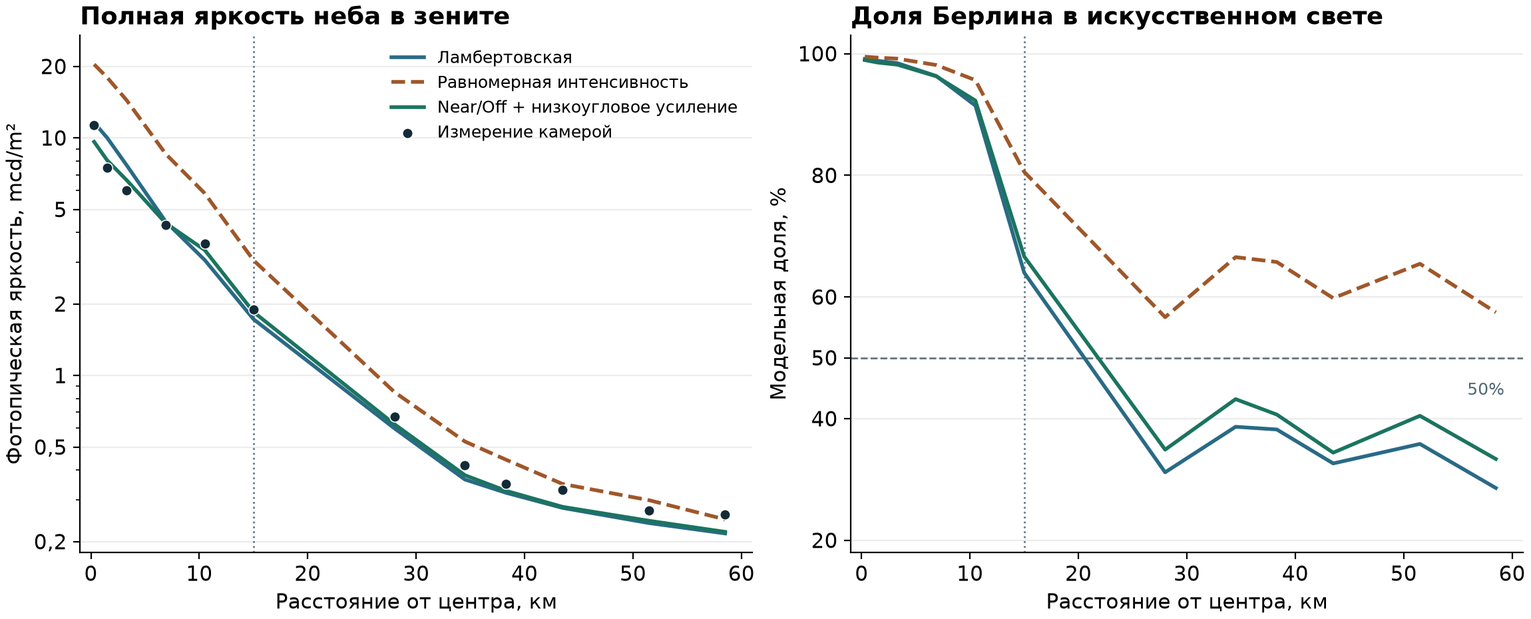
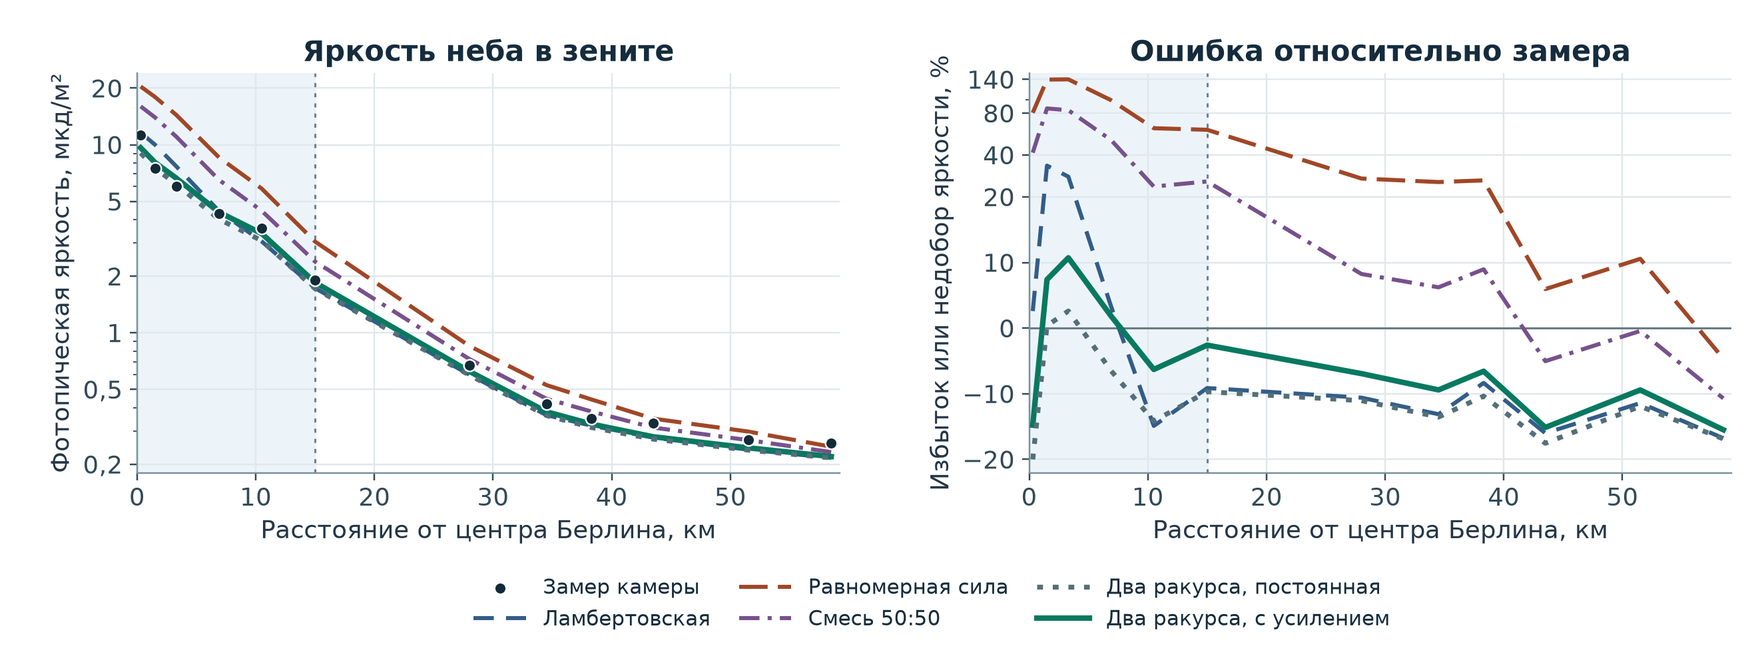
Explain Berlin skyglow inputs and emission scenarios

diff --git a/artifacts/berlin-propagation-20261126/README.md b/artifacts/berlin-propagation-20261126/README.md
@@ -1,71 +1,105 @@
-# Проверка переноса света на ночном маршруте к югу от Берлина
+# Как диаграмма излучения Берлина меняет прогноз яркости неба
 
-В ночь с 28 на 29 марта 2017 года одна калиброванная камера измерила зенитную яркость в **12 точках на расстояниях 0,3–58,5 км от центра Берлина**. Все точки прошли проверку Солнца и Луны. Берлин даёт больше половины искусственного света в **шести точках на расстояниях 0,3–15 км** при всех трёх сценариях с измеренными или ламбертовскими углами. В дальних точках становится важен свет других населённых пунктов. [Наблюдения Jechow и Hölker](https://doi.org/10.3390/rs12203412)
+Сравнение пяти вариантов в 12 точках к югу от Берлина в ночь с 28 на 29 марта 2017 года.
 
-Сравнил порядок яркости площадок, величину спада с расстоянием и среднюю ошибку яркости. Спутниковый масштаб и параметры каждого сценария заданы до сравнения с наземными замерами.
+**Результат.** На шести точках, где по расчёту преобладает Берлин, средняя абсолютная ошибка яркости составила **15,24%** у ламбертовской диаграммы, **8,89%** после привязки к двум ракурсам Black Marble и **7,27%** с дополнительным усилением у горизонта. Во всех пяти вариантах порядок яркости одинаков для всех 64 заметно различавшихся пар на маршруте. За 15 км расчёт с усилением занижает яркость на всех шести дальних точках. В этом секторе существенен вклад соседних населённых пунктов.
 
-![Яркость и доля Берлина в искусственном свете при дневной опоре AERONET](transect.png)
+## Что содержат исходные данные
 
-## Яркость и порядок точек
+| Набор | Что измеряет и как я использовал |
+|---|---|
+| [Наземная фотометрия Jechow и Hölker, таблицы 1 и A1](https://doi.org/10.3390/rs12203412) | Одна Canon EOS 6D с объективом «рыбий глаз», откалиброванная по звёздам. Оценка полной фотопической яркости неба в круге радиусом 10° вокруг зенита, в мкд/м². Камера регистрирует вместе искусственный свет и естественный фон. По оценке исследователей, погрешность фотометрии около 10%. |
+| [Ручной фотометр SQM на том же маршруте](https://arxiv.org/html/2202.08258v1#S3.SS1) | Второй ряд наземных измерений с собственной спектральной полосой прибора. Использовал его для проверки порядка яркости площадок. Ошибку в мкд/м² считаю по фотопической оценке камеры. |
+| [NASA Black Marble, VNP46A3.002 и VNP46A4.002](https://ladsweb.modaps.eosdis.nasa.gov/missions-and-measurements/products/VNP46A3) | Спутниковая радиансность от участков поверхности в широкой полосе VIIRS DNB, примерно 500–900 нм. Для расчёта это карта света, уходящего от поверхности в атмосферу. Композит объединяет пролёты за период. Направление лучей задают слои NearNadir и OffNadir. |
+| [AERONET, станция Freie Universität Berlin, таблица A3](https://doi.org/10.3390/rs12203412) | Оптическая толщина аэрозоля из измерений прямого солнечного света. За последние два светлых часа 28 марта опубликованы AOD 0,19 на 440 нм, 0,17 на 500 нм и 0,13 на 675 нм. По ним получил AOD 0,156 на 550 нм и показатель Ангстрема 0,888. Это дневная опора для ночного расчёта. |
 
-В таблице средняя абсолютная относительная ошибка **полной** фотопической яркости. Три разреза показаны на одних и тех же физических входах. Опора для AOD на 550 нм составляет 0,156 по дневной фотометрии AERONET. Знак среднего смещения приведён для шести точек с преобладанием Берлина.
+Наблюдения сделаны в 12 точках на расстояниях 0,3–58,5 км от центра Берлина. Маршрут прошли последовательно за 3 ч 36 мин, с 01:11 до 04:47 местного времени 29 марта, или с 23:11 UTC 28 марта до 02:47 UTC 29 марта. Облачность по полевому отчёту 0 октантов. По эфемеридам высота Солнца от −34,1° до −18,4°, Луны от −33,9° до −24,6°. [Точки, координаты и время](observations.json) · [Публикация с описанием камеры и апертуры](https://arxiv.org/html/2202.08258v1#S2.SS2)
 
-| Излучение Берлина | Берлин преобладает, 6 точек | Смещение на этих 6 точках | Все 12 точек | Дальше от центра, 15–58,5 км, 7 точек |
+Использовал бесснежный композит Black Marble за март 2017 года, плитка h19v03. Если месячная ячейка NearNadir отсутствовала или не проходила фильтр, брал ячейку из годового композита 2017 года. Фильтр принимает флаг качества 0 и больше трёх наблюдений. Годовые замены дают 4,42% радиансности Берлина в NearNadir. Из 6 796 ячеек внутри границы города годны 6 544 в NearNadir и 6 102 в обоих ракурсах. [Руководство Black Marble Collection 2.0](https://landweb.modaps.eosdis.nasa.gov/data/userguide/BlackMarbleUserGuide_Collection2.0_20241203.pdf)
+
+## Как привёл прогноз к показанию камеры
+
+- **Место и направление.** Запустил перенос на координатах каждой остановки. Высоты наблюдателей взял из Copernicus DEM GLO-90 и добавил 1,5 м для камеры. Усреднил лучи по телесному углу в конусе радиусом 10° вокруг зенита. [Источник высот](https://open-meteo.com/en/docs/elevation-api)
+- **Полоса и единицы.** Привязал спектры тёплого LED и натриевой лампы высокого давления к равным вкладам в спутниковую полосу DNB. Считал перенос в пяти интервалах 380–780 нм и сложил их с фотопическими весами CIE. Так получил мкд/м², то есть милликанделы на квадратный метр. Спектр реальных ламп, свет в ближней ИК-части полосы DNB и отличие зелёного канала камеры от CIE остаются источниками неопределённости. [Полоса VIIRS DNB](https://ladsweb.modaps.eosdis.nasa.gov/missions-and-measurements/products/VNP02DNB/)
+- **Атмосфера и фон.** Считал все порядки рассеяния на сфере с одним атмосферным профилем на весь маршрут. Задал AOD 0,156, высоту аэрозольного масштаба 1,2 км и масштаб молекулярного рассеяния 8 км. К искусственной яркости всех прогнозов добавил 0,170 мкд/м², опорный естественный фон из статьи. Ночной фон и высотный профиль аэрозоля остаются неопределёнными. [Опорный фон, таблица 2](https://doi.org/10.3390/rs12203412)
+- **Изменяемый параметр.** Между сценариями менял только угловую диаграмму ячеек внутри муниципальной границы Берлина. Соседние источники, атмосфера, фон и спектральная смесь были общими. Масштаб каждого варианта задал по спутнику до сравнения с камерой. Коэффициент по наземным замерам не подбирал. [Граница DE001C, GISCO 2024, © EuroGeographics](https://gisco-services.ec.europa.eu/distribution/v2/urau/geojson/URAU_RG_100K_2024_4326_CITIES.geojson)
+
+## Что именно менялось в диаграммах
+
+Диаграмма задаёт, сколько света участок отдаёт вверх и вбок. Радиансность L описывает свет на единицу видимой площади и телесного угла. Сила излучения I описывает свет всего участка на единицу телесного угла. Для горизонтального участка площади A и высоты луча h над горизонтом выполняется I = A × L × sin(h). У матовой поверхности L постоянна, а при взгляде сбоку видимая площадь A × sin(h) меньше. [Закон Ламберта](https://ntrs.nasa.gov/api/citations/19680004191/downloads/19680004191.pdf)
+
+| Вариант | Правило для излучения участка Берлина |
+|---|---|
+| **Ламбертовская** | Радиансность постоянна и равна NearNadir. Сила излучения слабее под малым углом. При 30° над горизонтом она вдвое меньше, чем вертикально вверх. |
+| **Равномерная сила** | Сила излучения одинакова для углов от 5° до 90° над горизонтом. Радиансность при наклоне растёт, потому что видимая площадь уменьшается. В последних 5° радиансность фиксируется на значении при 5°. |
+| **Смесь 50:50** | Ламбертовская и равномерная диаграммы смешаны с равными вкладами в NearNadir. Это доли в спутниковом ракурсе. |
+| **Два ракурса, постоянная** | Для той же ячейки сохраняю NearNadir и OffNadir в их диапазонах углов. Между диапазонами интерполирую по косинусу угла от вертикали. Ниже 30° над горизонтом продолжаю OffNadir постоянной радиансностью. |
+| **Два ракурса, с усилением** | Те же значения в измеренных диапазонах. Ниже 30° радиансность плавно растёт от значения OffNadir к удвоенному значению у горизонта. |
+
+**Что значит «два ракурса».** NearNadir собирает свет, уходящий почти вертикально вверх, от 70° до 90° над горизонтом. OffNadir собирает свет под наклоном, от 30° до 50°. Для каждой ячейки это две оценки радиансности по разным спутниковым пролётам. Участок с отсутствующим OffNadir остаётся ламбертовским. Оба сценария одинаковы по всем измеренным углам и расходятся только ниже 30° над горизонтом. [Диапазоны NearNadir и OffNadir](https://landweb.modaps.eosdis.nasa.gov/data/userguide/BlackMarbleUserGuide_Collection2.0_20241203.pdf#page=25)
+
+При одинаковой опоре NearNadir ламбертовская диаграмма даёт отношение OffNadir к NearNadir 1,00, равномерная — 1,55, смесь — 1,28. Усреднение по телесному углу внутри диапазонов приближённое. В композитах на общем покрытии Берлина отношение **0,926**. Равномерная модель даёт слишком много света уже в наклонном ракурсе, который спутник наблюдает.
+
+![График 1. Пять диаграмм одного участка с отношением OffNadir к NearNadir 0,926, как в среднем по Берлину. Голубые полосы показывают спутниковые ракурсы.](emission-diagrams.png)
+
+Усиленный вариант даёт в 1,48 раза больше радиансности на 15° над горизонтом и в 1,83 раза на 5° относительно постоянного продолжения. Эффективная площадь горизонтального участка падает к горизонту, поэтому его сила излучения убывает даже при таком росте радиансности. Малые углы важны вдали от города. Например, в плоском приближении луч на высоту 2 км над точкой в 50 км выходит из города под углом около 2,3° и может рассеяться в зенитное поле камеры.
+
+## Как изменились прогнозы
+
+Средняя абсолютная ошибка — среднее по остановкам от модуля разницы, делённого на измеренную полную яркость. Среднее смещение сохраняет знак, плюс означает избыток расчётной яркости. На первых шести точках, до 15 км включительно, Берлин даёт больше половины искусственной яркости во всех трёх вариантах с ламбертовским или измеренным распределением. В дальней группе шесть остальных точек, от 28 до 58,5 км.
+
+| Вариант | Ошибка до 15 км, 6 точек | Смещение до 15 км | Ошибка дальше 15 км, 6 точек | Ошибка на всём маршруте, 12 точек |
 |---|---:|---:|---:|---:|
-| Ламбертовское | 15,24% | +7,23% | 13,97% | 12,20% |
-| Равномерная интенсивность | 97,10% | +97,10% | 56,89% | 22,98% |
-| Смесь 50:50 по NearNadir | 52,16% | +52,16% | 29,38% | 9,34% |
-| NearNadir/OffNadir с постоянным продолжением | 8,89% | −7,90% | 11,22% | 13,00% |
-| NearNadir/OffNadir с усилением у горизонта | 7,27% | −0,62% | 8,88% | 9,36% |
+| Ламбертовская | 15,24% | +7,23% | 12,71% | 13,97% |
+| Равномерная сила | 97,10% | +97,10% | 16,68% | 56,89% |
+| Смесь 50:50 | 52,16% | +52,16% | 6,60% | 29,38% |
+| Два ракурса, постоянная | 8,89% | −7,90% | 13,55% | 11,22% |
+| Два ракурса, с усилением | 7,27% | −0,62% | 10,49% | 8,88% |
 
-Считаю точки примерно равными, когда их яркости отличаются максимум на 10% от среднего в паре. По замерам 2 из 66 пар примерно равны, 64 заметно различаются. Во всех пяти вариантах порядок верен для всех 64 различающихся пар. Ламбертовская диаграмма и постоянное продолжение OffNadir воспроизвели по одной из двух близких пар. Сценарий с усилением у горизонта разделил обе близкие пары. В подгруппе, где доминирует Берлин, все 15 пар различаются, и порядок верен во всех пяти вариантах. Все пары получены из одного маршрута за одну ночь. [Метрики при порогах 5, 10 и 20%](results.json)
+- **От ламбертовской к двум ракурсам.** Постоянное продолжение уменьшило ошибку на шести точках с преобладанием Берлина на 6,35 процентного пункта. Избыток яркости около центра сменился небольшим средним недобором. У смеси 50:50 низкая ошибка на дальних точках сочетается с сильным завышением возле города и с избытком света в наклонном ракурсе Black Marble.
+- **От постоянного продолжения к усилению.** Усиление дополнительно снизило среднюю ошибку на тех же шести точках на 1,62 процентного пункта, а среднее смещение приблизилось к нулю. На самой дальней точке прибавка составила 0,0036 мкд/м² при остаточном недоборе примерно 0,040 мкд/м².
 
-Проверил порядок и по показаниям ручного SQM, опубликованным для того же маршрута. В шести доминирующих точках все модели верно упорядочили 15 из 15 различимых пар. На всём маршруте вариант с усилением у горизонта воспроизвёл порядок всех 63 различимых пар SQM. Абсолютную ошибку выше считаю в фотопической полосе камеры. [Значения SQM и оценка точности приборов](https://arxiv.org/html/2202.08258v1#S3.SS1)
+![График 2. Линии соединяют значения в 12 точках. Голубым отмечены первые шесть точек. Шкала яркости слева логарифмическая. Справа шкала ошибки сжимается за пределами ±20%.](transect.png)
 
-## Проверка спада яркости с расстоянием
+### Измерения и прогнозы по точкам
 
-Вычел одинаковый естественный фон 0,17 mcd/m² из измерения и расчёта, затем сравнил отношения искусственной яркости. Между 0,3 и 15 км по замерам искусственная яркость упала в **6,43 раза**. Ламбертовская модель даёт спад в **7,34 раза**, вариант с усилением у горизонта — в **5,63 раза**. На всех парах этих шести точек средняя ошибка отношения в логарифмической шкале уменьшилась с 0,247 до 0,131 mag. Так проверяется форма кривой без назначения общего масштаба по первой точке.
+Все значения яркости в мкд/м². Столбец «Берлин» показывает его долю в искусственном сигнале в варианте с усилением. «Постоянная» и «Усиление» используют оба ракурса Black Marble. Расчётные десятичные знаки оставлены для сравнения вариантов.
 
-От 15 до 58,5 км измеренный искусственный сигнал уменьшается в **19,2 раза**, а расчёт с усилением у горизонта — в **33,8 раза**. На этих расстояниях у Берлина только одна площадка, 15 км, с долей больше 50% во всех трёх основных сценариях. Дальняя часть показывает слишком быстрый спад суммарного расчётного сигнала, в который входят соседние источники. Дополнительно она чувствительна к естественному фону и изменению освещения за время маршрута.
+| км | Камера | Ламберт | Равн. сила | Смесь 50:50 | Постоянная | Усиление | Берлин |
+|---:|---:|---:|---:|---:|---:|---:|---:|
+| 0,3 | 11,300 | 11,594 | 20,405 | 15,999 | 9,039 | 9,629 | 99% |
+| 1,5 | 7,500 | 10,016 | 17,968 | 13,992 | 7,528 | 8,055 | 99% |
+| 3,3 | 6,000 | 7,676 | 14,407 | 11,042 | 6,156 | 6,643 | 98% |
+| 6,9 | 4,300 | 4,442 | 8,566 | 6,504 | 4,021 | 4,379 | 96% |
+| 10,5 | 3,600 | 3,064 | 5,845 | 4,454 | 3,090 | 3,373 | 92% |
+| 15,0 | 1,900 | 1,727 | 3,054 | 2,391 | 1,716 | 1,851 | 67% |
+| 28,0 | 0,670 | 0,599 | 0,852 | 0,725 | 0,596 | 0,624 | 35% |
+| 34,5 | 0,420 | 0,365 | 0,527 | 0,446 | 0,363 | 0,380 | 43% |
+| 38,3 | 0,350 | 0,321 | 0,442 | 0,381 | 0,314 | 0,327 | 41% |
+| 43,5 | 0,330 | 0,277 | 0,350 | 0,313 | 0,272 | 0,280 | 34% |
+| 51,5 | 0,270 | 0,239 | 0,299 | 0,269 | 0,238 | 0,245 | 40% |
+| 58,5 | 0,260 | 0,216 | 0,248 | 0,232 | 0,216 | 0,220 | 33% |
 
-Перенос воспроизводит порядок и приблизительный масштаб спада в группе, где преобладает Берлин. Привязка диаграммы к спутниковым углам улучшила и абсолютную яркость, и спад в этой группе. Для точного закона переноса остаются независимые неопределённости в ночной атмосфере, форме городского излучения и свете других населённых пунктов.
+В опыте 180 прогонов всех порядков по 131 072 траектории, суммарно 23 592 960. Ковариации и стандартные ошибки в архиве относятся к численному усреднению по траекториям. Сохранил координаты, эфемериды, хеши плиток, спектральные веса и полные прогнозы. Численные наблюдения из публикации распространяются по CC BY 4.0. [Наблюдения](observations.json) · [Результаты](results.json) · [Воспроизведение расчёта](../../scripts/run_berlin_propagation.py)
 
-## Точки и условия
+## Что говорят порядок, спад и дальние точки
 
-Расчёт использует NearNadir/OffNadir с усилением у горизонта. Доля Берлина относится к полному искусственному сигналу по модели. Единица яркости mcd/m², милликандела на квадратный метр.
+**Порядок.** Считаю точки примерно равными, если разница яркости не больше 10% от среднего в паре. Все пять диаграмм верно указали более яркую точку в 64 из 64 различимых пар по камере, в том числе в 15 из 15 пар на первых шести остановках. Из двух близких пар ламбертовская диаграмма и постоянное продолжение распознали по одной, остальные варианты — ни одной. У ручного SQM 63 различимые пары, порядок у усиленной диаграммы совпал во всех 63. Пары используют одни и те же точки одной ночи. [Измерения SQM](https://arxiv.org/html/2202.08258v1#S3.SS1) · [Расчёт по порогам 5, 10 и 20%](results.json)
 
-| Точка | км | Местное время | Измерено | Расчёт | Доля Берлина |
-|---|---:|---:|---:|---:|---:|
-| Museumsinsel | 0,3 | 01:11 | 11,30 | 9,63 | 99% |
-| Waldeckpark | 1,5 | 01:38 | 7,50 | 8,05 | 99% |
-| Park am Gleisdreieck | 3,3 | 01:57 | 6,00 | 6,64 | 98% |
-| Hans Baluschek Park | 6,9 | 02:23 | 4,30 | 4,38 | 96% |
-| Gemeindepark Lankwitz | 10,5 | 02:44 | 3,60 | 3,37 | 92% |
-| Gut Osdorf | 15,0 | 03:02 | 1,90 | 1,85 | 67% |
-| Wietstock | 28,0 | 03:31 | 0,67 | 0,624 | 35% |
-| Christinendorf | 34,5 | 03:56 | 0,42 | 0,380 | 43% |
-| Alexanderdorf | 38,3 | 04:05 | 0,35 | 0,327 | 41% |
-| Sperenberg | 43,5 | 04:19 | 0,33 | 0,280 | 34% |
-| Stülpe | 51,5 | 04:31 | 0,27 | 0,245 | 40% |
-| Petkus | 58,5 | 04:47 | 0,26 | 0,220 | 33% |
+**Спад в зоне преобладания Берлина.** При вычете одинакового фона из наблюдений и прогнозов яркость от 0,3 до 15 км упала по наблюдениям в 6,43 раза. Ламбертовский расчёт даёт 7,34 раза, постоянное продолжение — 5,74, усиленное — 5,63. Средняя ошибка отношений искусственной яркости по 15 парам уменьшилась с 0,247 до 0,131 звёздной величины у обоих спутниковых вариантов.
 
-Маршрут пройден последовательно за 3 часа 36 минут, от 23:11 UTC 28 марта до 02:47 UTC 29 марта. Пространственные изменения поэтому частично смешаны с изменениями атмосферы и работы освещения за ночь. По расчётным эфемеридам Солнце от −34,1 до −18,4°, Луна от −33,9 до −24,6°. Авторы сообщили облачность 0 октантов. Сравнил фотопическую яркость по CIE с фотопической оценкой камеры, измерившей свет в радиусе 10° вокруг зенита. Решатель усредняет начальные направления по телесному углу в том же круге. Исследователи оценивают погрешность фотометрии камеры примерно в 10%. Спектральное отличие зелёного канала камеры от CIE остаётся частью неопределённости. [Измеренные координаты, время и условия](observations.json) · [Описание метода и апертуры](https://arxiv.org/html/2202.08258v1#S2.SS2)
+**Спад дальше.** От 15 до 58,5 км искусственный сигнал уменьшился в 19,2 раза по наблюдениям и в 33,8 раза по варианту с усилением. В последней точке камера измерила 0,260 мкд/м², прогноз дал 0,220. Из последних 0,220 на принятый фон приходится 0,170, на Берлин около 0,017, на прочие источники 0,033. После вычета фона остаётся 0,090 по камере и 0,050 в расчёте. Поэтому ошибка в 15,5% от полной яркости соответствует примерно 45% от искусственного остатка. Этот спад относится к совместному вкладу Берлина и соседних источников и чувствителен к реальному естественному фону.
 
-## Что именно менял в модели излучения
+## Как устойчив результат и что осталось проверить
 
-- Менял диаграмму внутри границы Берлина. Вклад соседей рассчитан по ламбертовской границе и отдельно учтён в долях. Для города использовал GISCO 2024, код DE001C в масштабе 1:100 000. Административные границы © EuroGeographics. [Файл границ GISCO](https://gisco-services.ec.europa.eu/distribution/v2/urau/geojson/URAU_RG_100K_2024_4326_CITIES.geojson)
-- Для ламбертовской модели радиансность постоянна, а сила света убывает с косинусом угла от вертикали. Равномерная модель держит силу света на телесный угол постоянной до 85° и ограничивает радиансность после 85°. Обе привязаны к одной полосе NearNadir, поэтому смесь 50:50 относится к спутниковому сигналу в этом ракурсе. При равномерном по телесному углу усреднении эти модели дают OffNadir/NearNadir от 1,00 до 1,55. На общем покрытии Берлина Black Marble даёт 0,926. Усреднение внутри спутниковых диапазонов — приближение, так как фактические веса неизвестны. [Категории ракурсов Black Marble](https://landweb.modaps.eosdis.nasa.gov/data/userguide/BlackMarbleUserGuide_Collection2.0_20241203.pdf)
-- В двух вариантах NearNadir/OffNadir я сохраняю обе измеренные категории и интерполирую между ними по косинусу. После 60° от вертикали радиансность либо остаётся равной OffNadir, либо линейно по косинусу растёт к 2× OffNadir у горизонта. Настройку выбрал из сценариев прежнего опыта, без подгонки по маршруту. При пропуске OffNadir сохраняю ламбертовский NearNadir.
-- Взял композит марта 2017, VNP46A3.002, и заполнил непригодные ячейки из годового VNP46A4.002 за 2017. Добавленные ячейки дают 4,42% спутниковой радиансности Берлина в NearNadir. Использовал QA 0 и больше трёх наблюдений. Форму переноса считал на пяти участках спектра при смеси LED-B2 и HP1 с равными вкладами в DNB. Также проверил оба спектра отдельно. Спектры заданы на 380–780 нм. Излучение в ближней ИК-части полосы DNB остаётся неопределённостью перевода в видимую яркость. Расчёт включает все порядки рассеяния от границы сферы. Высоты наблюдателей взял по DEM. Земная поверхность для переноса сферическая, что оставляет экранирование рельефом, здания и высоты ламп открытыми факторами.
+| AOD на 550 нм | Ламбертовская | Два ракурса, постоянная | Два ракурса, с усилением |
+|---:|---:|---:|---:|
+| 0,10 | 13,15% | 12,19% | 7,01% |
+| 0,156, дневной AERONET | 15,24% | 8,89% | 7,27% |
+| 0,22 | 18,72% | 7,65% | 8,74% |
 
-При AOD 0,10 и 0,22 вместо 0,156 средняя ошибка на шести доминирующих точках с усилением у горизонта составила 7,01% и 8,74%. При AOD 0,22 постоянное продолжение дало 7,65%. Точный хвост диаграммы по одному маршруту с дневной опорой AOD остаётся неопределённым. У двух чистых спектров при AOD 0,156 ошибка усиленного варианта на тех же точках составляет 8,07% для HP1 и 7,73% для LED-B2. В пяти ближних точках источники в пределах 10 км дают 82–97% модельного искусственного сигнала. [Дневной AOD, таблица A3](https://doi.org/10.3390/rs12203412) · [Модель высот](https://open-meteo.com/en/docs/elevation-api)
+В таблице средняя абсолютная ошибка на шести точках с преобладанием Берлина. Во всех трёх случаях лучший результат даёт одна из диаграмм с двумя спутниковыми ракурсами. Предпочтение между постоянным продолжением и усилением зависит от атмосферы. Точное усиление у горизонта по этой ночи остаётся неопределённым.
 
-На этом маршруте проверяю высоту выхода света над местным горизонтом. Форму по азимуту помогут проверить одновременные замеры в двух направлениях от города на сравнимых расстояниях, с учётом других источников. Отдельно имеет смысл сверить форму купола на панорамных измерениях, в том числе низко над горизонтом в направлении города.
+**Спектр под малым углом.** По сохранённым результатам заменил спектр только дополнительного излучения ниже 30° над горизонтом с натриевого HP1 на тёплый LED-B2 при том же вкладе в спутниковую полосу. На 58,5 км изменение меньше 0,0001 мкд/м². Выраженный синий компонент около 450 нм требует отдельного спектрального контроля. VIIRS DNB слабо чувствителен в этой области, а рассеяние и ослабление света по пути зависят от длины волны. [Исследование спектрального переноса](https://www.sciencedirect.com/science/article/pii/S0022407313004792)
 
-## Третья гипотеза
-
-Неопределённость естественного свечения атмосферы (airglow) сильнее влияет на оценку в дальней части маршрута, где общая яркость приближается к уровню тёмного неба. В последней точке фиксированные 0,17 mcd/m² составляют около двух третей измеренной полной яркости. Отделить естественный фон помогла бы одновременная тёмная контрольная площадка за пределами основного купола, желательно с многополосным измерением. Изменение освещения за время маршрута и разница между фотометрией камеры и CIE также могут участвовать в остатке. Фон фиксировал по опорному значению авторов на весь маршрут.
-
-## Зафиксированные данные
-
-Выполнил 180 расчётов всех порядков по 131 072 траектории на каждый, суммарно 23 592 960 траекторий. Совместные траектории внутри случая дают ковариации между диаграммами. Стандартные ошибки описывают численное усреднение. Хеши карт, наблюдений, границы и спектрального отклика сохранены вместе с расчётом. Данные наблюдений распространяются по CC BY 4.0. [Наблюдения](observations.json) · [Все числа и неопределённости](results.json) · [Скрипт воспроизведения](../../scripts/run_berlin_propagation.py)
+**Где важны другие факторы.** В ламбертовском прогоне на пяти ближних точках 82–97% искусственного вклада дают источники в радиусе 10 км от камеры. На этих расстояниях могут влиять высоты фонарей и экранирование зданиями. На дальних точках заметнее соседние источники и изменение естественного фона, в том числе airglow. Для проверки излучения по азимуту и отделения этих факторов нужны одновременные цветовые измерения в нескольких направлениях и тёмная контрольная площадка.
